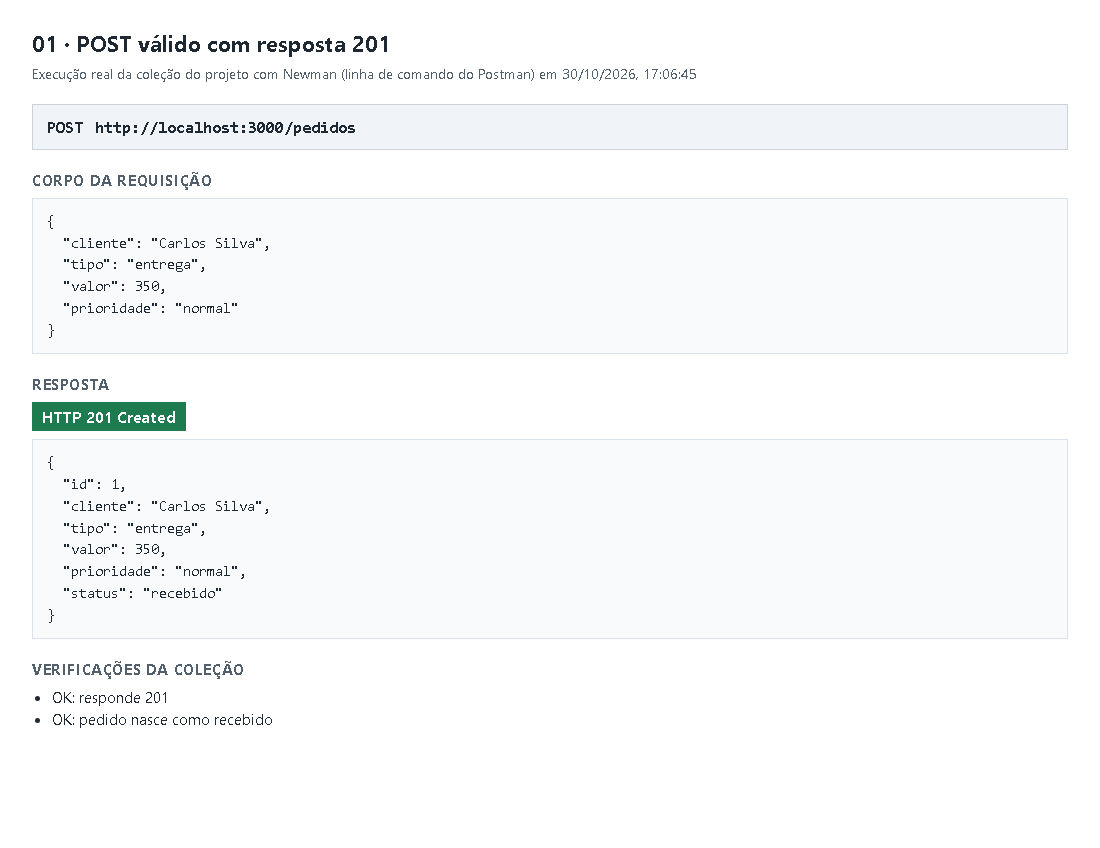
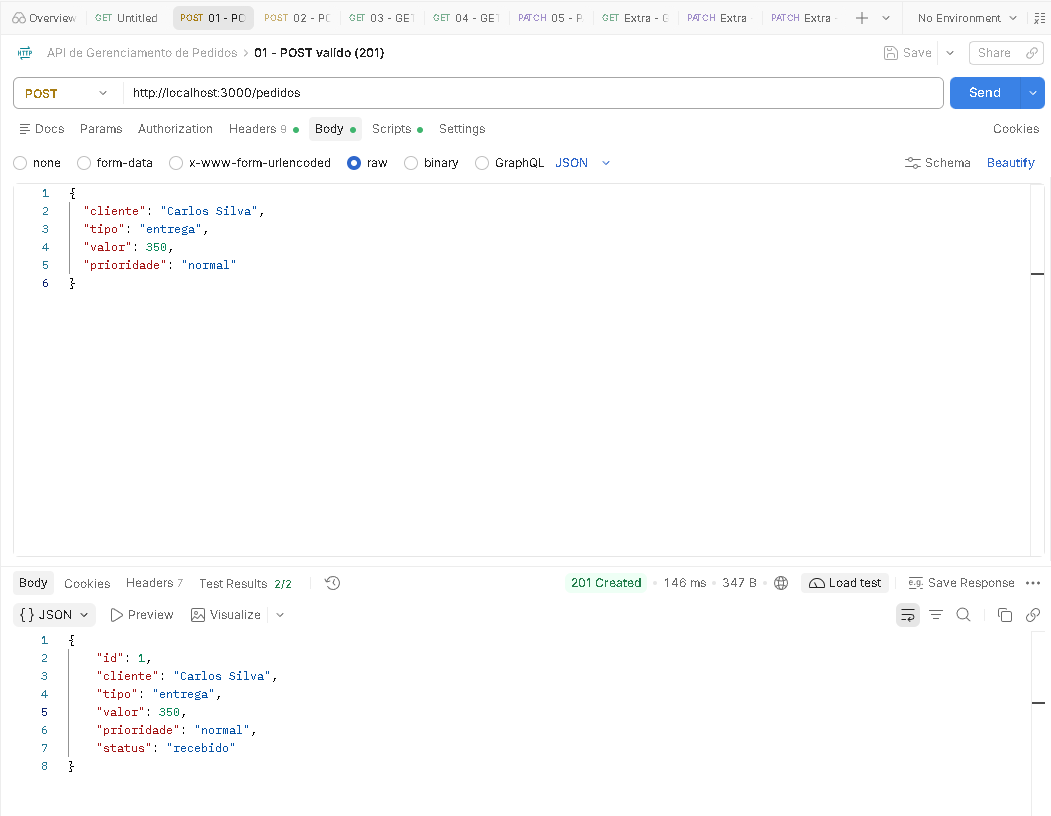
docs: substitui evidencias por capturas dos testes no Postman
Troca as imagens geradas com o Newman pelas capturas feitas no Postman
e atualiza os READMEs para informar a origem correta.

diff --git a/README.md b/README.md
@@ -225,13 +225,13 @@ São 90 testes automatizados com Jest e Supertest, com 100% de cobertura de `src
 - `tests/pedidos.api.test.js`: testa as rotas pelo HTTP, incluindo cenários de sucesso, dados inválidos, IDs inexistentes, JSON malformado e erro 500.
 - `tests/pedidoService.test.js`: testa as 25 combinações possíveis entre status de origem e de destino.
 
-A coleção de testes do Postman está em `postman/api-pedidos.postman_collection.json`. A pasta [`evidencias/`](evidencias/README.md) traz as capturas de uma execução real dessa coleção com o Newman, a linha de comando do Postman.
+Os testes manuais foram feitos no Postman, com a coleção `postman/api-pedidos.postman_collection.json`. As capturas estão na pasta [`evidencias/`](evidencias/README.md).
 
 ## Uso de IA
 
 Sim, utilizei uma ferramenta de IA para programação neste projeto, a partir do enunciado da atividade.
 
-**Tarefas em que foi usada:** criação da estrutura do projeto, implementação das camadas, escrita dos testes automatizados, criação da coleção do Postman, redação deste README e geração das capturas da pasta `evidencias/`, feitas a partir de uma execução real da API com o Newman.
+**Tarefas em que foi usada:** criação da estrutura do projeto, implementação das camadas, escrita dos testes automatizados, criação da coleção do Postman e redação deste README. As capturas da pasta `evidencias/` foram feitas por mim, executando a API no Postman.
 
 **Sugestão aceita: comparar o identificador como texto.** O repositório compara `String(pedido.id) === String(id)`, em vez de converter a URL com `parseInt`. Com `parseInt`, `/pedidos/1abc` encontraria o pedido 1, quando o enunciado pede 404 para identificadores inexistentes. O comportamento está coberto por testes.
 

diff --git a/evidencias/README.md b/evidencias/README.md
@@ -1,6 +1,6 @@
 # Evidências — Postman
 
-Capturas de uma execução real da coleção do projeto com o Newman, a linha de comando do Postman, com a API rodando localmente. Cada imagem mostra método, URL, corpo da requisição (quando há), resposta e código HTTP.
+Capturas dos testes manuais feitos no Postman, com a API rodando localmente. Cada imagem mostra método, URL, corpo da requisição (quando há), resposta e código HTTP.
 
 | Arquivo | Cenário | Requisição na coleção | HTTP esperado |
 | --- | --- | --- | --- |
@@ -13,5 +13,5 @@ Capturas de uma execução real da coleção do projeto com o Newman, a linha de
 ## Como reproduzir
 
 1. Inicie a API com o servidor zerado: `npm start`.
-2. Em outro terminal, rode `npx newman run postman/api-pedidos.postman_collection.json`. Se preferir o Postman, importe esse arquivo e envie as requisições na ordem da tabela.
-3. A 05 altera o pedido 1, criado pela 01. Para repetir a sequência, reinicie o servidor, pois os pedidos ficam em memória.
+2. No Postman, importe `postman/api-pedidos.postman_collection.json`.
+3. Envie cada requisição uma única vez, na ordem da tabela. A 05 altera o pedido 1, criado pela 01. Para repetir a sequência, reinicie o servidor, pois os pedidos ficam em memória.
